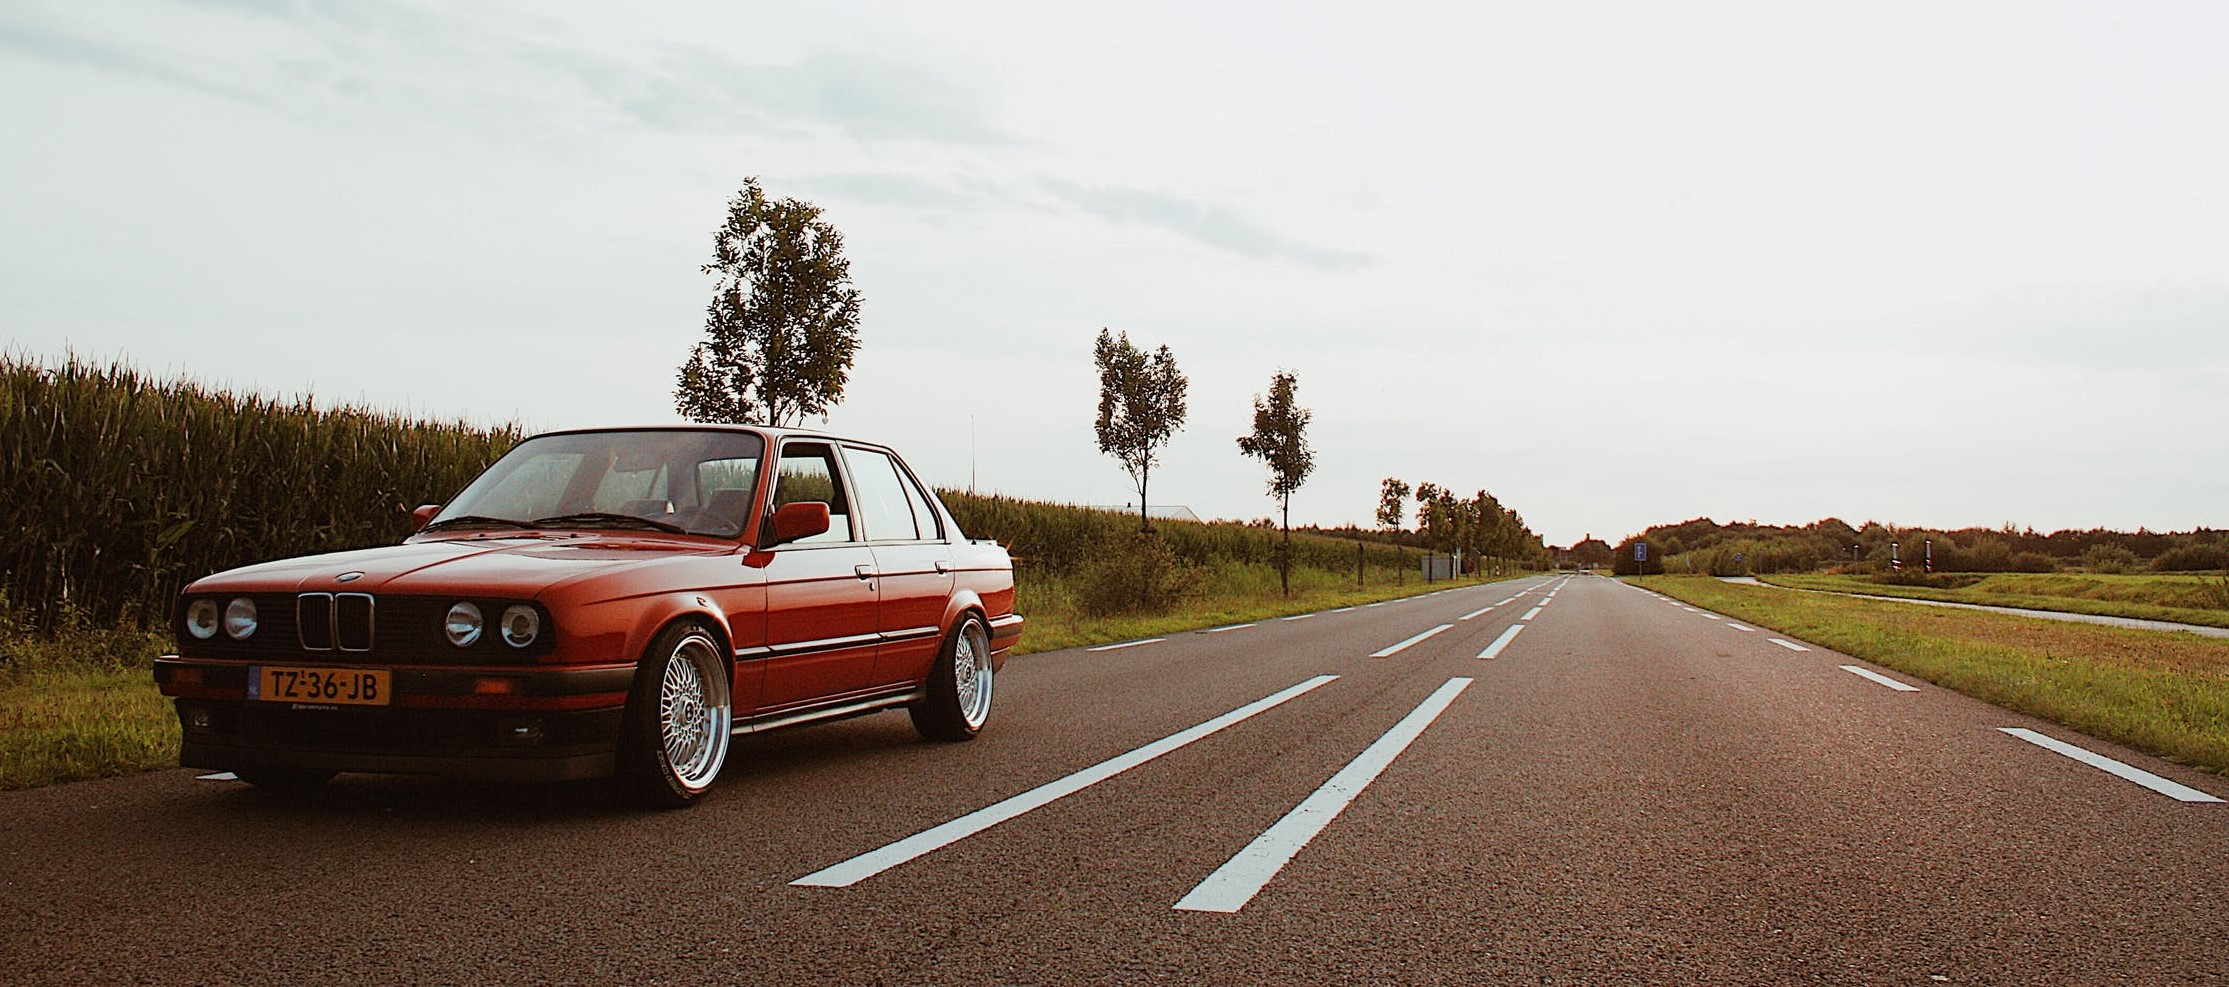
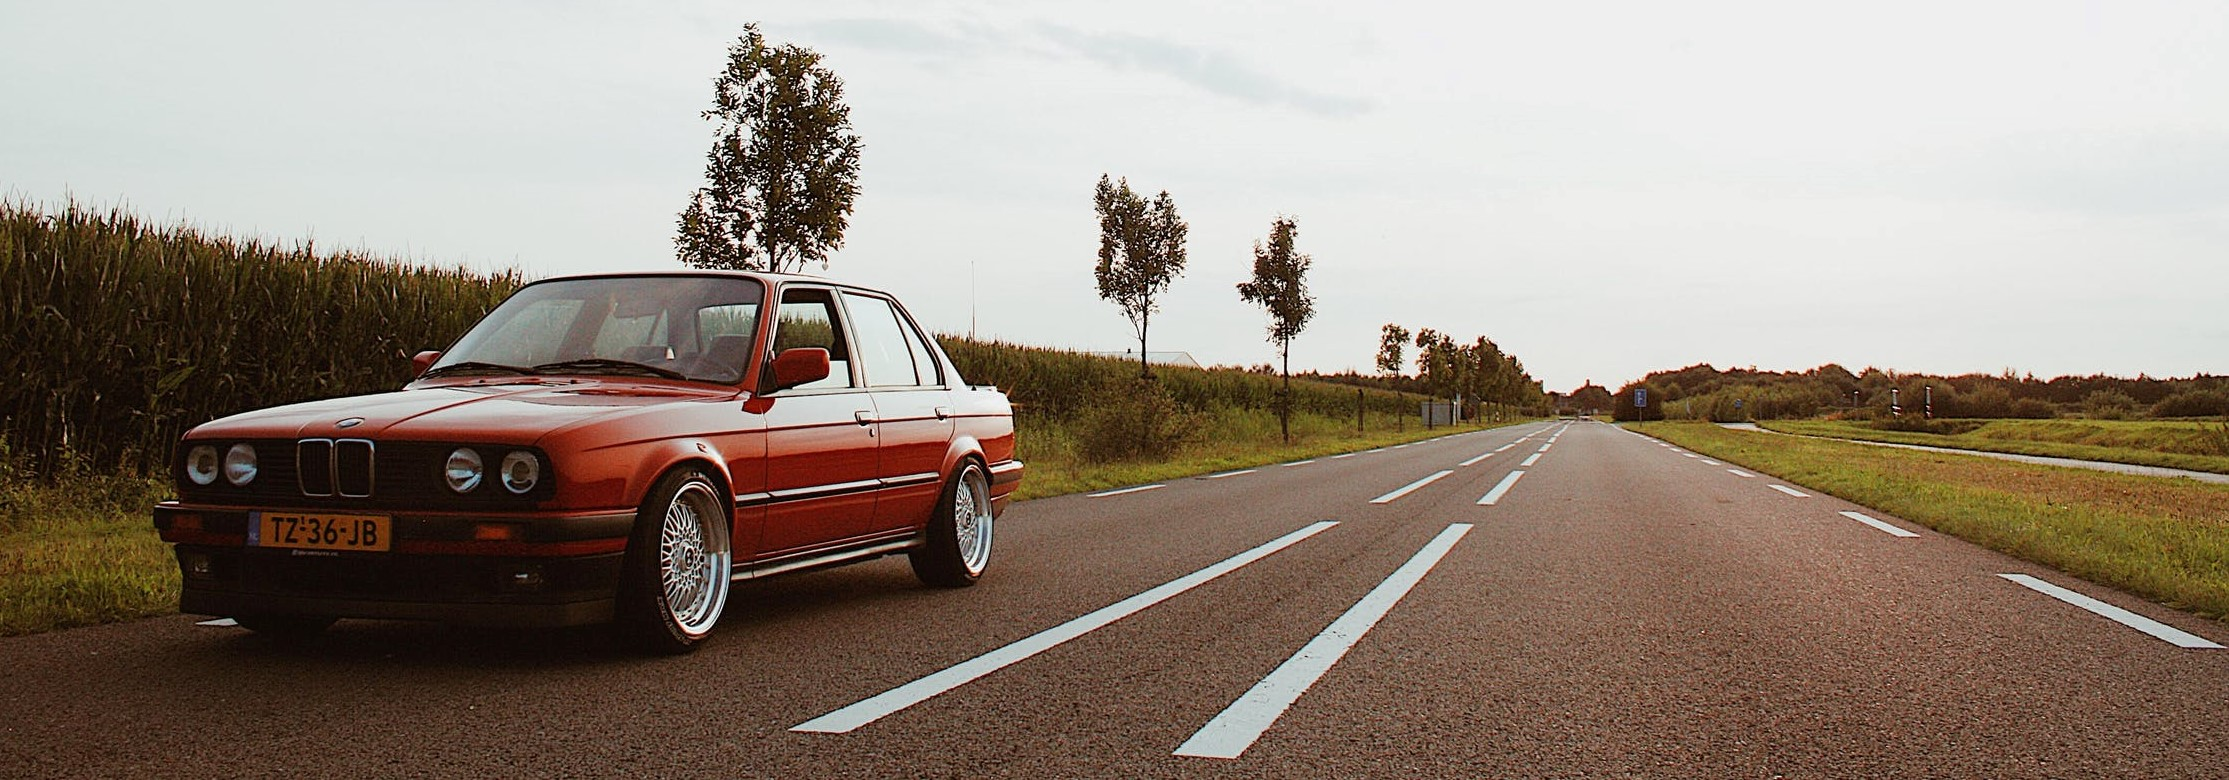
carousel implemented

diff --git a/src/component/banner/index.js b/src/component/banner/index.js
@@ -1,12 +1,38 @@
 import './_banner.scss';
 
 import React from 'react';
+import Slider from 'react-slick';
 
 class Banner extends React.Component {
   render(){
+    let settings = {
+      autoplay: true,
+      autoplaySpeed: 5000,
+      dots: false,
+      fade: true,
+      infinite: true,
+      slidesToShow: 1,
+      slidesToScroll: 1,
+      speed: 1000,
+    };
+    
     return(
       <div className='banner'>
-        <img src={require('./assets/bmw-desktop-1.jpg')} />
+        <Slider {...settings}>
+        
+          <div>
+            <img src={require('./assets/bmw-desktop.jpg')} />
+          </div>
+  
+          <div>
+            <img src={require('./assets/audi.jpg')} />
+          </div>
+          
+          <div>
+            <img src={require('./assets/bmw-suv.jpg')} />
+          </div>
+  
+        </Slider>
       </div>
     );
   }

diff --git a/src/component/banner/_banner.scss b/src/component/banner/_banner.scss
@@ -1,9 +1,16 @@
 @import 'vars';
+@import "~slick-carousel/slick/slick.css";
+@import "~slick-carousel/slick/slick-theme.css";
 
 .banner {
+  margin: auto;
   text-align: center;
-
+  width: 95%;
+  
   img {
-    width: 95%;
+    width: 100%;
   }
+
 }
+
+
